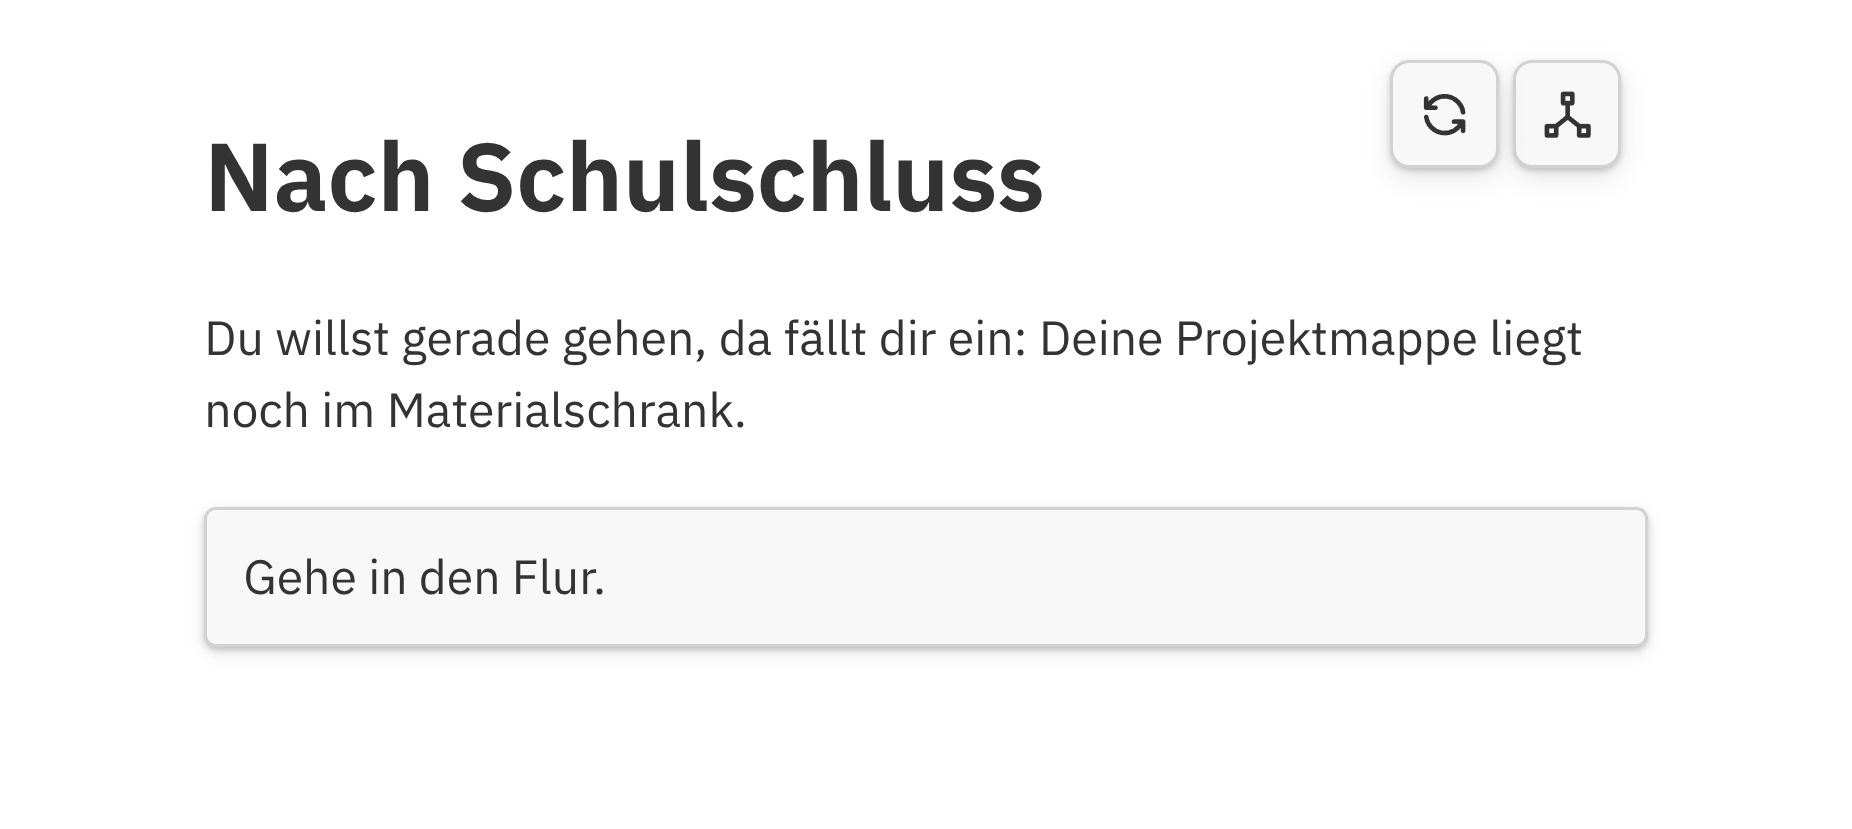
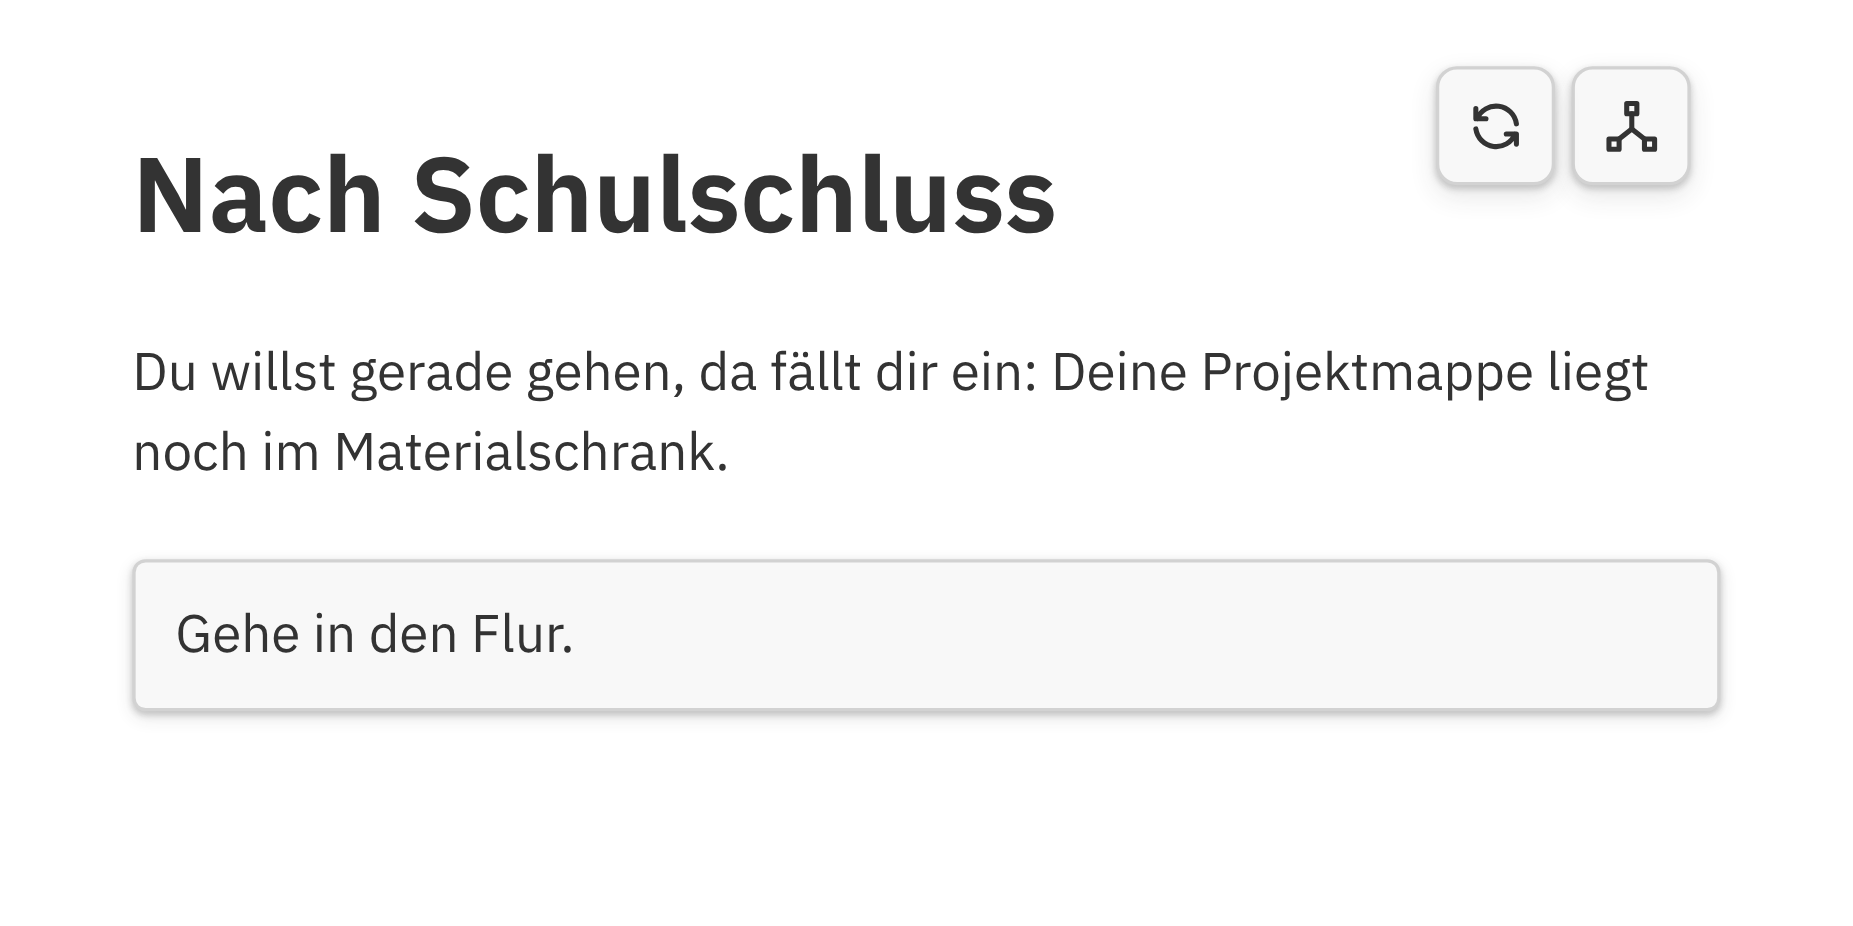
yay

diff --git a/src/tutorial-screenshots/server.js b/src/tutorial-screenshots/server.js
@@ -271,6 +271,17 @@ function parsePreviewControlTarget(value) {
     return { label: target };
 }
 
+function parseMouseTarget(value) {
+    const target = value.trim();
+    if (target.startsWith('selector:')) {
+        const selector = target.slice('selector:'.length).trim();
+        if (!selector) throw new Error('Mouse target selector must not be empty');
+        return { selector };
+    }
+    if (!target) throw new Error('Mouse target text must not be empty');
+    return { text: target };
+}
+
 function parseRecipe(text, markdown, markdownPath, recipeStart) {
     const recipe = {
         tab: 'workspace',
@@ -354,6 +365,11 @@ function parseRecipe(text, markdown, markdownPath, recipeStart) {
                 type: 'hold',
                 seconds,
                 ...valueAtSource(source, () => parsePreviewControlTarget(match[2])),
+            });
+        } else if ((match = line.match(/^move-mouse:\s*(.+)$/))) {
+            recipe.actions.push({
+                type: 'move-mouse',
+                ...valueAtSource(source, () => parseMouseTarget(match[1])),
             });
         } else if ((match = line.match(/^press:\s*(.+)$/))) {
             recipe.actions.push({ type: 'press', key: match[1].trim() });
@@ -1538,6 +1554,34 @@ async function holdPreview(action) {
     await preview.waitForTimeout(150);
 }
 
+async function moveMouse(action, targetTab) {
+    const page = targetTab === 'preview' ? preview : workspace;
+    if (!page || page.isClosed()) {
+        throw new Error(`move-mouse requests unavailable tab: ${targetTab}`);
+    }
+
+    let target;
+    let description;
+    if (action.selector) {
+        target = page.locator(action.selector);
+        description = `element matching selector ${JSON.stringify(action.selector)}`;
+    } else {
+        target = page.getByText(action.text, { exact: true });
+        description = `element with text ${JSON.stringify(action.text)}`;
+    }
+
+    await target.first().waitFor({ state: 'visible', timeout: 20_000 });
+    const count = await target.count();
+    if (count !== 1) {
+        throw new Error(`move-mouse expected exactly one ${description}, found ${count}`);
+    }
+
+    const box = await target.boundingBox();
+    if (!box) throw new Error(`move-mouse could not measure ${description}`);
+    await page.mouse.move(box.x + box.width / 2, box.y + box.height / 2);
+    await page.waitForTimeout(150);
+}
+
 async function waitForText(text, targetTab) {
     const page = targetTab === 'preview' ? preview : workspace;
     if (!page || page.isClosed()) {
@@ -1590,6 +1634,7 @@ async function executeAction(action, targetTab) {
     case 'preview-reset': return previewReload(true);
     case 'click': return clickPreview(action);
     case 'hold': return holdPreview(action);
+    case 'move-mouse': return moveMouse(action, targetTab);
     case 'sleep': return sleep(action.seconds);
     case 'wait-for-text': return waitForText(action.text, targetTab);
     case 'press': {

diff --git a/src/content/bif/bif.md b/src/content/bif/bif.md
@@ -577,6 +577,7 @@ wait-for-text: Frage nach dem Materialschrank.
 click: Nimm den Schlüssel.
 wait-for-text: Gehe zurück in den Flur.
 click: Gehe zurück in den Flur.
+move-mouse: No problems
 sleep: 0.5
 -->
 
@@ -595,6 +596,14 @@ Gerade beim Testen einer interaktiven Geschichte lohnt es sich, Orte mehrmals zu
 ## Ende
 
 Öffne jetzt den Materialschrank:
+
+<!-- tutorial-screenshot
+tab: preview
+zoom: 1.25
+click: Öffne den Materialschrank.
+move-mouse: No problems
+sleep: 0.5
+-->
 
 <img class='full full-shadow scroll-right' src='unlocked-door.webp' alt='Der geöffnete Materialschrank bildet das Ende der Geschichte; darunter erscheint der Neustart-Button.'>
 
@@ -642,8 +651,16 @@ Speichere die Datei.
 
 BIF erkennt, dass das JavaScript nicht gültig ist. Im Bereich **Problems** siehst du, in welcher Datei und in welcher Zeile der Fehler gefunden wurde. Auch im Graphen wird die betroffene Seite als fehlerhaft markiert.
 
-<!-- Screenshot: Problems mit JavaScript-Syntaxfehler -->
-
+<!-- tutorial-screenshot
+write-file: pages-starter/3.md <- file:3-with-error.md.txt
+wait-for-file-newer: bif/.story-tools/analysis.json <- bif/pages-starter/3.md
+preview-reload
+hold: 1.5s selector:.story-restart-control
+tab: preview
+zoom: 1.25
+click: Fit graph
+sleep: 0.5
+-->
 <img class='full full-shadow' src='script-error.webp' alt='Der Problems-Bereich meldet den JavaScript-Syntaxfehler; die betroffene Seite ist im Graphen rot markiert.'>
 
 Korrigiere die Zeile anschließend wieder:
@@ -683,27 +700,78 @@ theme: mystery
 # Nach Schulschluss
 ```
 
-BIF bringt mehrere Themes mit: `default`, `paper`, `mystery`, `midnight`, `terminal` und `playful`.
+BIF bringt mehrere Themes mit: `default`, `paper`, `playful`, `mystery`, `midnight` und `terminal`.
 Ein Theme legt Farben und Schriften fest und verändert außerdem einige Details wie Abstände und abgerundete Ecken. Du kannst es deshalb einfach so verwenden, wie es ist.
 
 <div class='row'>
+    <!-- tutorial-screenshot
+    write-file: pages-starter/1.md <- file:theme-default.md.txt
+    wait-for-file-newer: bif/.story-tools/analysis.json <- bif/pages-starter/1.md
+    tab: preview
+    preview-reload
+    click: selector:.story-view-toggle
+    hold: 1.5s selector:.story-restart-control
+    move-mouse: Nach Schulschluss
+    zoom: 2.75
+    sleep: 0.5
+    -->
     <div class='col-md-4'>
         <img src='theme-default.webp' style='width: 100%;' class='full-shadow' alt='Die Geschichte im hellen Standard-Theme.'>
     </div>
+    <!-- tutorial-screenshot
+    write-file: pages-starter/1.md <- file:theme-paper.md.txt
+    wait-for-file-newer: bif/.story-tools/analysis.json <- bif/pages-starter/1.md
+    tab: preview
+    preview-reload
+    zoom: 2.75
+    sleep: 0.5
+    -->
     <div class='col-md-4'>
         <img src='theme-paper.webp' style='width: 100%;' class='full-shadow' alt='Die Geschichte im cremefarbenen Paper-Theme mit Serifenschrift.'>
     </div>
+    <!-- tutorial-screenshot
+    write-file: pages-starter/1.md <- file:theme-playful.md.txt
+    wait-for-file-newer: bif/.story-tools/analysis.json <- bif/pages-starter/1.md
+    tab: preview
+    preview-reload
+    zoom: 2.75
+    sleep: 0.5
+    -->
+    <div class='col-md-4'>
+        <img src='theme-playful.webp' style='width: 100%;' class='full-shadow' alt='Die Geschichte im Playful-Theme mit abgerundeten Flächen.'>
+    </div>
+    <!-- tutorial-screenshot
+    write-file: pages-starter/1.md <- file:theme-mystery.md.txt
+    wait-for-file-newer: bif/.story-tools/analysis.json <- bif/pages-starter/1.md
+    tab: preview
+    preview-reload
+    zoom: 2.75
+    sleep: 0.5
+    -->
     <div class='col-md-4'>
         <img src='theme-mystery.webp' style='width: 100%;' class='full-shadow' alt='Die Geschichte im dunklen Mystery-Theme.'>
     </div>
+    <!-- tutorial-screenshot
+    write-file: pages-starter/1.md <- file:theme-midnight.md.txt
+    wait-for-file-newer: bif/.story-tools/analysis.json <- bif/pages-starter/1.md
+    tab: preview
+    preview-reload
+    zoom: 2.75
+    sleep: 0.5
+    -->
     <div class='col-md-4'>
         <img src='theme-midnight.webp' style='width: 100%;' class='full-shadow' alt='Die Geschichte im dunkelblauen Midnight-Theme.'>
     </div>
+    <!-- tutorial-screenshot
+    write-file: pages-starter/1.md <- file:theme-terminal.md.txt
+    wait-for-file-newer: bif/.story-tools/analysis.json <- bif/pages-starter/1.md
+    tab: preview
+    preview-reload
+    zoom: 2.75
+    sleep: 0.5
+    -->
     <div class='col-md-4'>
         <img src='theme-terminal.webp' style='width: 100%;' class='full-shadow' alt='Die Geschichte im schwarzen Terminal-Theme mit grüner Monospace-Schrift.'>
-    </div>
-    <div class='col-md-4'>
-        <img src='theme-playful.webp' style='width: 100%;' class='full-shadow' alt='Die Geschichte im Playful-Theme mit abgerundeten Flächen.'>
     </div>
 </div>
 
@@ -804,6 +872,23 @@ In Markdown kannst du das Bild so einfügen:
 Der Text in den eckigen Klammern beschreibt das Bild und hilft zum Beispiel Menschen, die einen Screenreader verwenden.
 
 <!-- Screenshot: BIF-Seite mit Bild -->
+<!-- tutorial-screenshot
+write-file: pages-starter/1.md <- file:theme-default.md.txt
+write-file: pages-starter/3.md <- file:3-with-image.md.txt
+write-file: pages-starter/key.jpg <- file:key.jpg
+wait-for-file-newer: bif/.story-tools/analysis.json <- bif/pages-starter/1.md
+tab: preview
+preview-reload
+click: selector:.story-view-toggle
+hold: 1.5s selector:.story-restart-control
+click: Gehe in den Flur.
+wait-for-text: Sieh im Büro nach.
+click: Sieh im Büro nach.
+wait-for-text: Gehe zurück in den Flur.
+move-mouse: No problems
+zoom: 1.25
+sleep: 0.5
+-->
 
 <img class='full full-shadow scroll-right' src='story-image.webp' alt='Ein Schlüsselbild ergänzt die Büroseite der Geschichte.'>
 

diff --git a/src/tutorial-screenshots/README.md b/src/tutorial-screenshots/README.md
@@ -81,6 +81,8 @@ click: BUTTON OR LINK TEXT
 click: selector:CSS_SELECTOR
 hold: SECONDSs BUTTON OR LINK TEXT
 hold: SECONDSs selector:CSS_SELECTOR
+move-mouse: TEXT
+move-mouse: selector:CSS_SELECTOR
 press: PlaywrightKey
 sleep: SECONDS
 wait-for-text: TEXT
@@ -128,6 +130,16 @@ confirm restart control can be driven without depending on its translated label:
 
 ```text
 hold: 1.5s selector:.story-restart-control
+```
+
+`move-mouse` moves the Chromium pointer to the center of exactly one element in
+the currently selected screenshot tab. Without a prefix, the target is matched by
+exact visible text; prefix it with `selector:` to use a CSS selector instead. This
+is useful for parking the pointer on a neutral element before capture so a button
+does not remain in its hover state. For example:
+
+```text
+move-mouse: No problems
 ```
 
 `previous-code` means the last fenced code block before the recipe. When several
